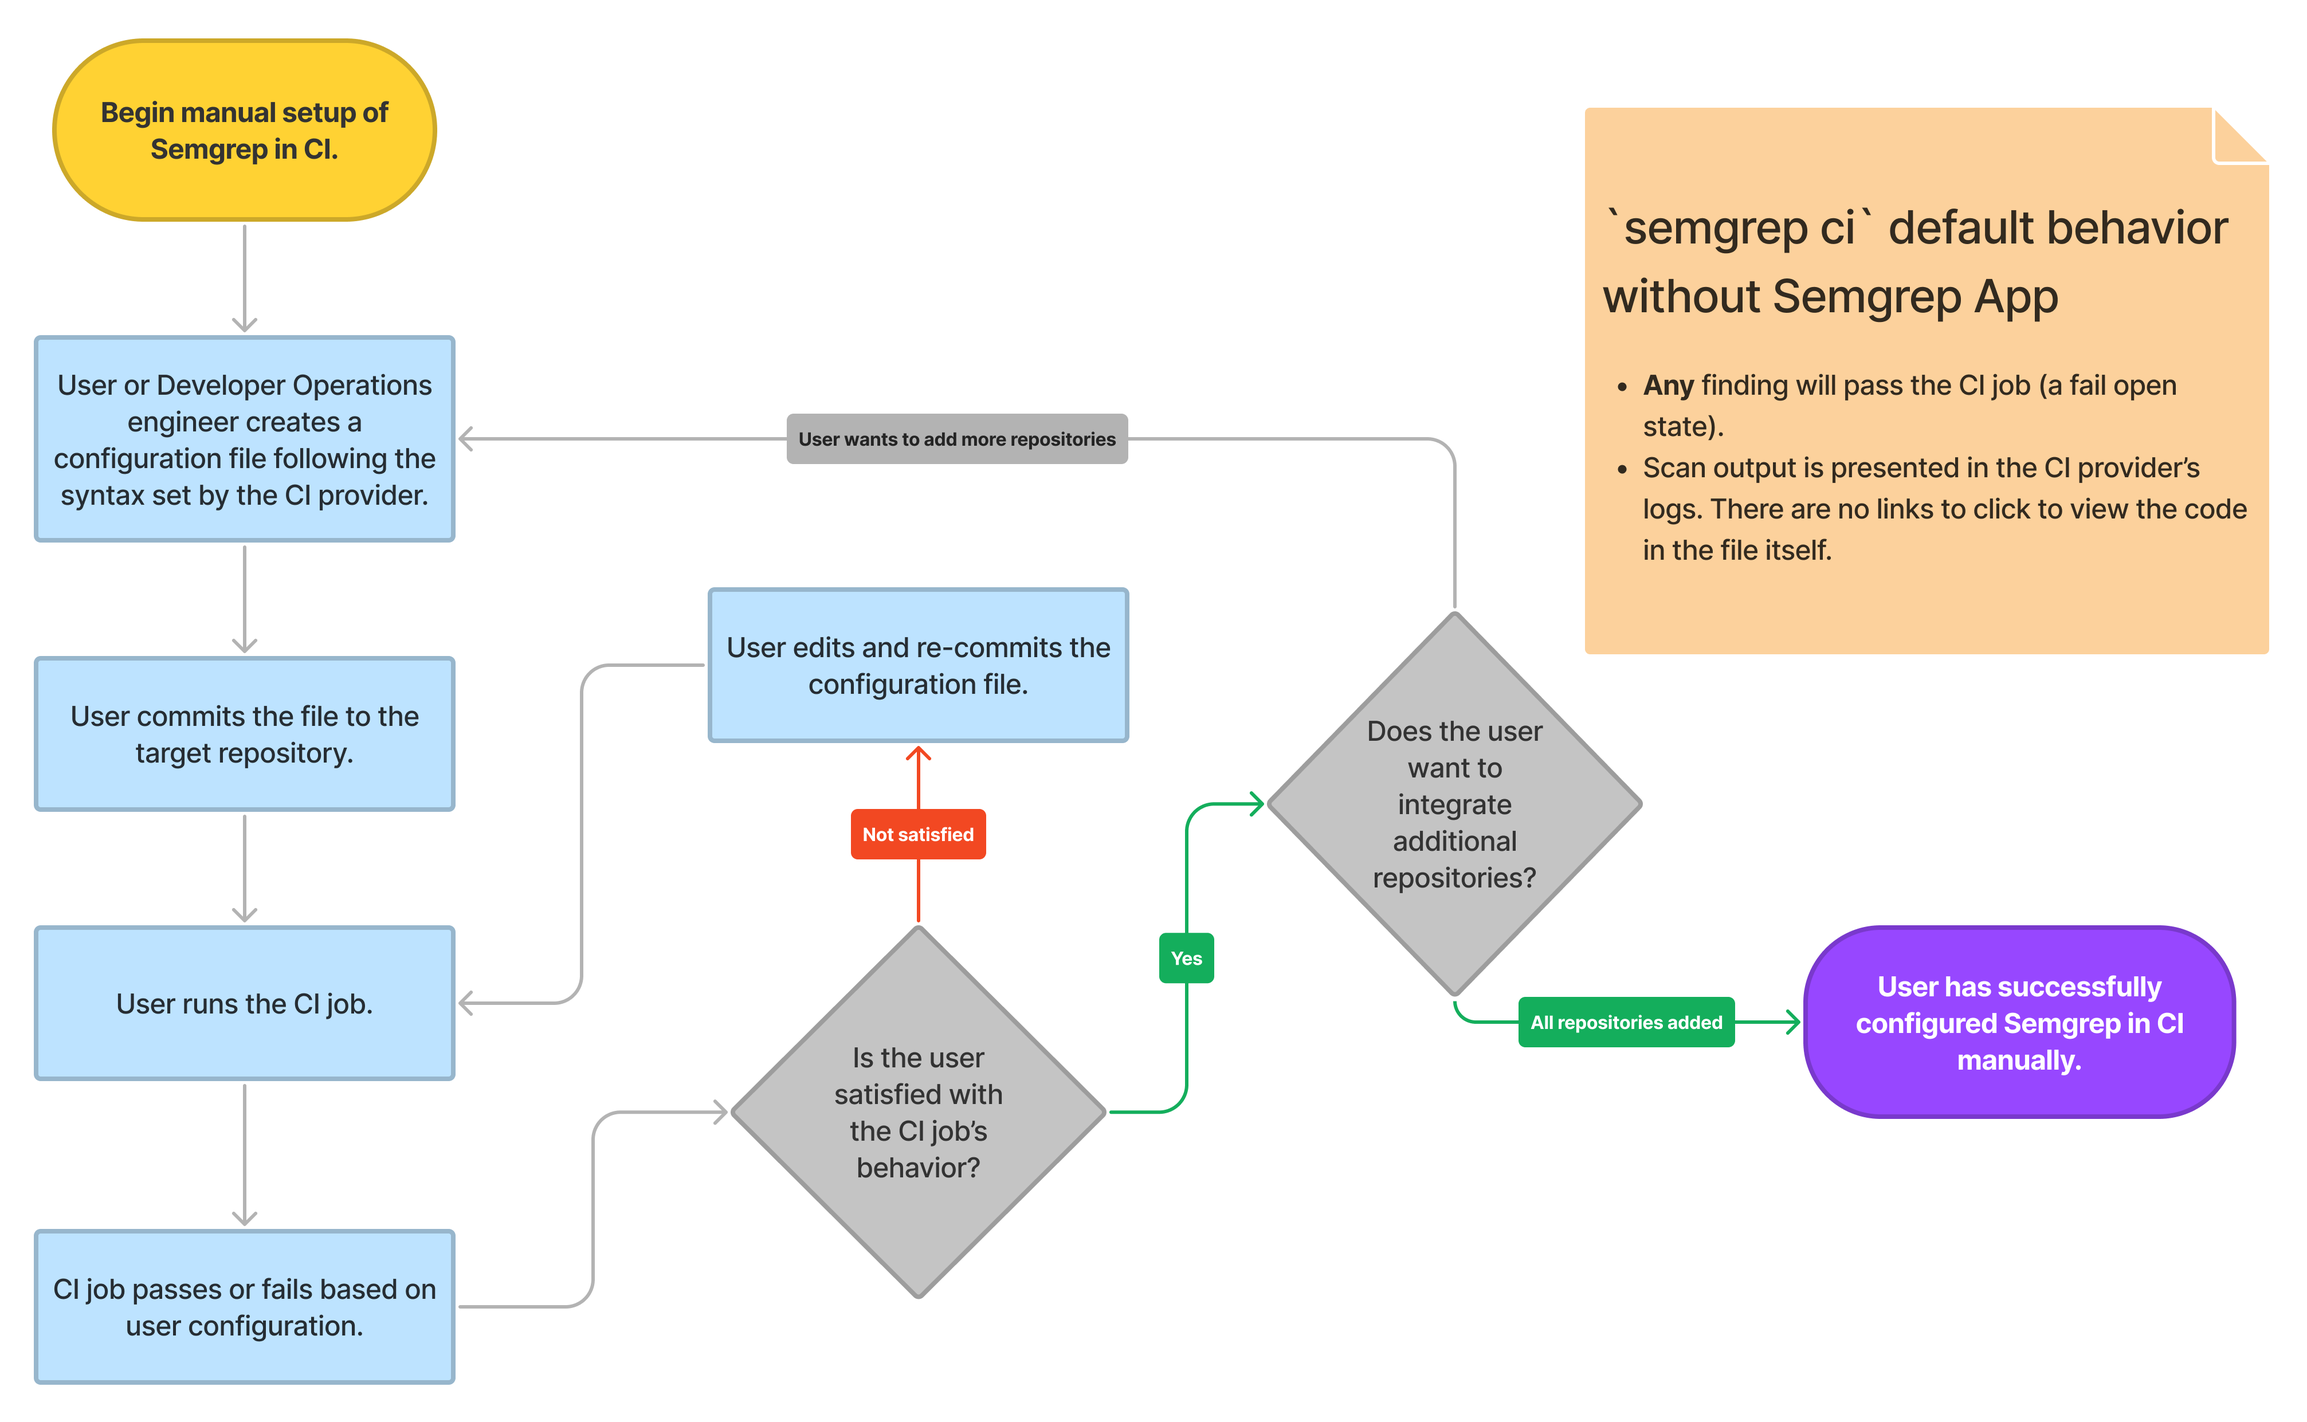
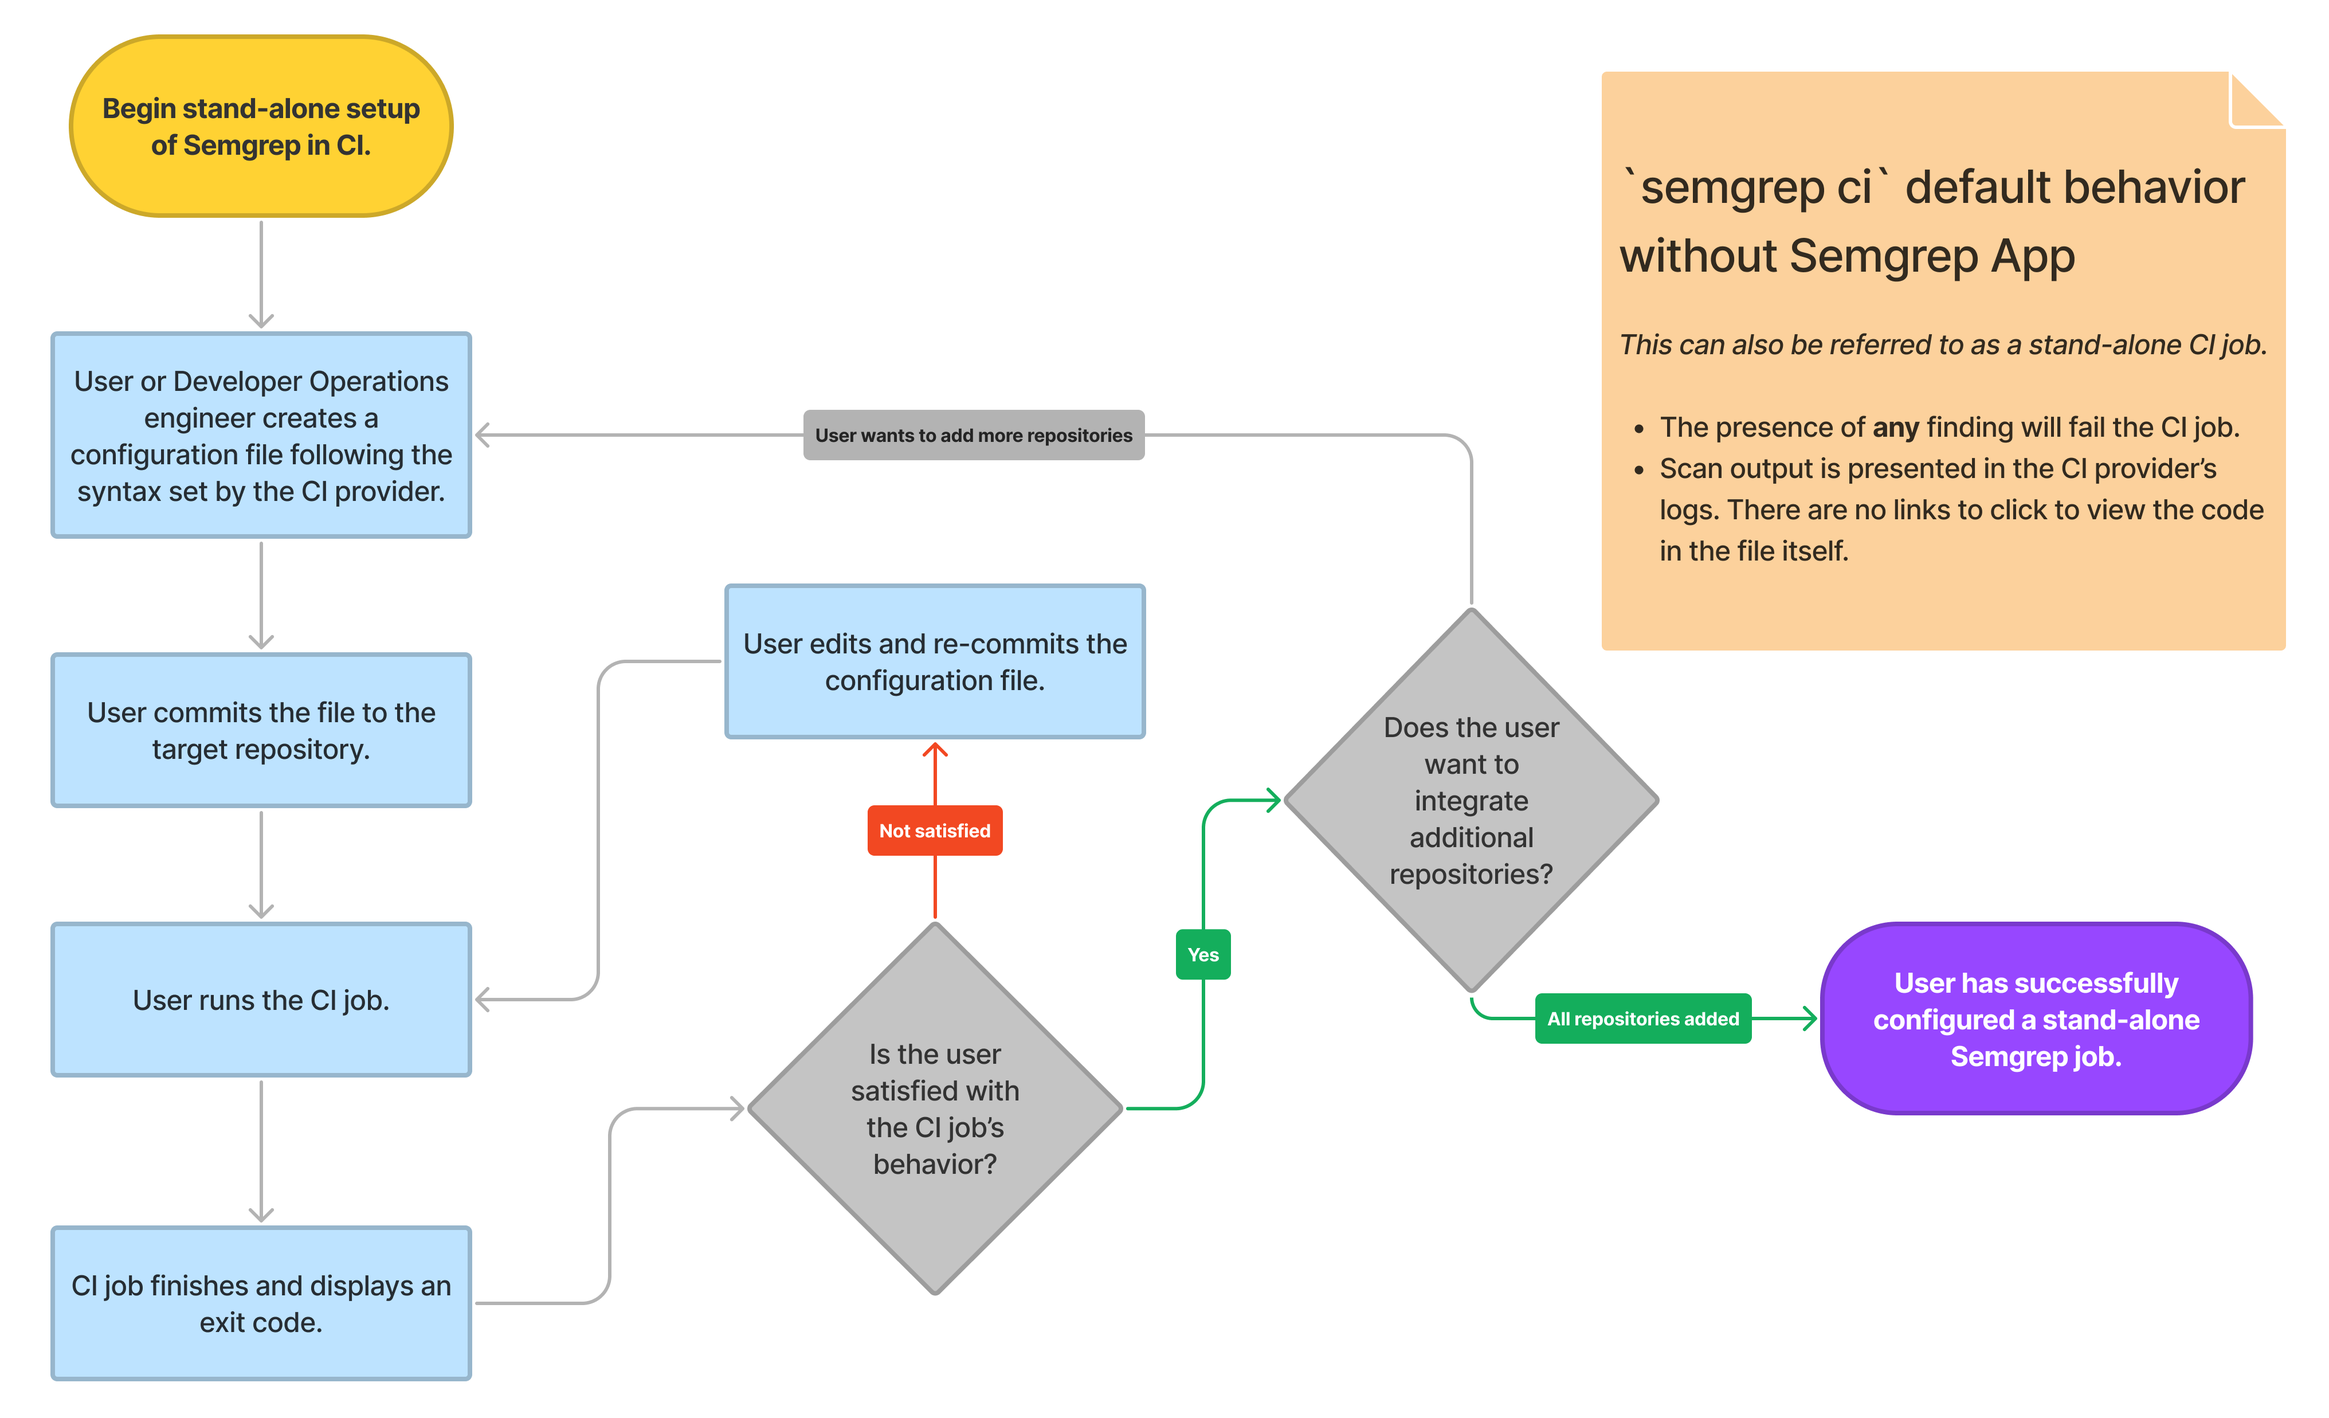
edited to add more comments in the config file

diff --git a/docs/semgrep-ci/manual-ci-setup.md b/docs/semgrep-ci/manual-ci-setup.md
@@ -10,13 +10,13 @@ import MoreHelp from "/src/components/MoreHelp"
 
 # Running Semgrep in continuous integration (CI) without Semgrep App
 
-Run Semgrep in your Continuous Integration (CI) pipeline to scan your repository for code vulnerabilities and other issues. This guide explains how to set up Semgrep in your pipeline without the use of Semgrep App.
+Run Semgrep in your Continuous Integration (CI) pipeline to scan your repository for code vulnerabilities and other issues. This guide explains how to set up Semgrep in your pipeline without the use of Semgrep App, also known as a **stand-alone** setup.
 
-There are three general steps to setting up Semgrep in your CI pipeline manually:
+There are three general steps to setting up Semgrep in your CI pipeline:
 
 1. Set up the CI job or action to scan with Semgrep and receive an exit code.
-2. Test the CI job, which means you are able to view findings in the CI provider's log.
-3. Refine the CI job's parameters. It is easier to troubleshoot any parameters after testing that the job runs.
+2. Test that the Semgrep job is scanning your repository and that you are able to view scan results in your CI provider's log.
+3. Refine the CI job's parameters. It is easier to troubleshoot any parameters after testing that the job runs successfully.
 
 ![Steps to run Semgrep in CI without Semgrep App](/img/semgrep-ci-overview-noapp.png "Steps to integrate Semgrep in CI without Semgrep App")
 *Figure 1. Steps to run Semgrep in CI manually.*
@@ -29,13 +29,12 @@ By refining a job's parameters, you are able to achieve the following goals:
 * **Run Semgrep with custom rules.** Apply rules specific to your organization's business goals and coding conventions.
 * **Run Semgrep when an event triggers.** Run Semgrep when a pull or merge request (PR or MR) is created. These event triggers or event hooks are dependent on your CI provider. 
 * **Run Semgrep on relevant files and blocks of code.** Configure Semgrep to ignore files and folders such as test files, configuration files, and files from other vendors.
-<!-- Waiting for DevOps to confirm the below statement -->
-* **Configure a Semgrep CI job to pass or fail when any finding is detected.** By default, manual configurations pass when any finding is detected. You can also configure Semgrep to fail CI jobs when findings are reported.
+* **Configure a Semgrep CI job to pass even when any finding is detected.** By default, manual configurations pass when any finding is detected. You can also configure Semgrep to fail CI jobs when findings are reported.
 * **Output, export, or save findings to a file.** Semgrep can save to a number of file formats, including SARIF and JSON. 
 
 ## Limitations of manually configured Semgrep CI scans 
 
-* Findings are not tiered based on a user-defined criteria (such as severity) and actions cannot be undertaken based on a user-defined criteria. This means that either any finding will cause the job to fail, or any finding still allows the job to pass.
+* Findings are not tiered based on a user-defined criteria (such as severity) and actions cannot be undertaken based on a user-defined criteria. To tier findings and block PRs or MRs based on your own defined criteria, use Semgrep App's [Rule Board](/semgrep-app/rule-board).
 * Findings are dumped to a log and are not tracked over time, so there is no record of a finding's **triage state**, such as opened, closed, or ignored.
 
 :::note
@@ -50,10 +49,6 @@ By refining a job's parameters, you are able to achieve the following goals:
  * `semgrep ci` makes use of environment variables to configure its behavior. 
  * `semgrep ci` performs a diff-aware scan by default. This means it only scans changes in files when run on a pull or merge request.
  * `semgrep ci` can be run on a local `.git` repository at any time to test its behavior before running it within a CI environment.
-
-:::note
-An alternative method of running Semgrep in your CI is to run the `semgrep scan` command, passing rules to scan, for example `semgrep scan --config p/default`, which performs a full scan of the repository every time the job is run. For more details, see [`semgrep scan` options](/cli-reference/#semgrep-scan-options).
-:::
 
 ### GitHub Actions
 
@@ -76,43 +71,40 @@ If you are self-hosting your repository, you must [use a self-hosted runner](htt
 name: Semgrep
 
 on:
-
-  # Scan pull requests.
+  # To scan changed files in PRs (diff-aware scanning):
   pull_request: {}
-
-  # Scan all files on branches, report any findings.
+  # To scan mainline branches and report all findings:
   push:
     branches: ["master", "main"]
-
-  # Schedule CI job to run at a certain time, using cron syntax.
+  # To schedule the CI job (this method uses cron syntax):
   schedule:
     - cron: '30 0 1,15 * *' # scheduled for 00:30 UTC on both the 1st and 15th of the month
 
 jobs:
   semgrep:
-
-    # User definable name of this GitHub Actions job.
+    # User-definable name of this GitHub Actions job:
     name: Scan
-
-    # Only change the `runs-on` value if you are self-hosting. 
+    # If you are self-hosting, change the following `runs-on` value: 
     runs-on: ubuntu-latest
 
     container:
       # A Docker image with Semgrep installed. Don't change this.
       image: returntocorp/semgrep
 
-    # Skip any PR created by dependabot to avoid permission issues
+    # To skip any PR created by dependabot to avoid permission issues:
     if: (github.actor != 'dependabot[bot]')
 
     steps:
-
       # Fetch project source with GitHub Actions Checkout.
       - uses: actions/checkout@v3
-
       # Run the "semgrep ci" command on the command line of the docker image.
       - run: semgrep ci
         env:
-          SEMGREP_RULES: p/default # more at semgrep.dev/explore
+           # Define rules to scan with through the SEMGREP_RULES environment variable. 
+           SEMGREP_RULES: p/default # more at semgrep.dev/explore
+           # Uncomment SEMGREP_TIMEOUT to set this job's timeout (in seconds):
+           # (Default is 1800 seconds. Set to 0 to disable.)
+           # SEMGREP_TIMEOUT: 300
 ```
 
 ### GitLab CI/CD
@@ -135,25 +127,22 @@ If you are already running [GitLab SAST](https://docs.gitlab.com/ee/user/applica
 
 ```yaml
 semgrep:
-
   # A Docker image with Semgrep installed.
   image: returntocorp/semgrep
-
   # Run the "semgrep ci" command on the command line of the docker image.
   script: semgrep ci
 
   rules:
-    # Scan changed files in MRs, only report new findings (existing findings ignored)
+    # To scan changed files in MRs (diff-aware scanning):
     - if: $CI_MERGE_REQUEST_IID
-    # Scan all files on the default branch, report any findings.
+    # To scan all files on the default branch and report any findings:
     - if: $CI_COMMIT_BRANCH == $CI_DEFAULT_BRANCH
 
   variables:
-
-    # Define rules through the SEMGREP_RULES environment variable. 
+    # Define rules to scan with through the SEMGREP_RULES environment variable. 
     SEMGREP_RULES: p/default
-
-    # Change job timeout (value in seconds; default is 1800 seconds. Set to 0 to disable)
+    # Uncomment SEMGREP_TIMEOUT to set this job's timeout (in seconds):
+    # (Default is 1800 seconds. Set to 0 to disable.)
     #   SEMGREP_TIMEOUT: 300
 ```
 
@@ -161,26 +150,21 @@ semgrep:
 
 ```yaml
 semgrep:
-
   # A Docker image with Semgrep installed.
   image: returntocorp/semgrep
 
   rules:
-
-    # Scan changed files in MRs, only report new findings (existing findings ignored)
+    # To scan changed files in MRs (diff-aware scanning):
     - if: $CI_MERGE_REQUEST_IID
-  
-    # Scan all files on the default branch, report any findings.
+    # To scan all files on the default branch and report any findings:
     - if: $CI_COMMIT_BRANCH == $CI_DEFAULT_BRANCH
 
   variables:
-
-    # Define rules through the SEMGREP_RULES environment variable. 
+    # Define rules to scan with through the SEMGREP_RULES environment variable. 
     SEMGREP_RULES: p/default # See more at semgrep.dev/explore.
-
-    # Change job timeout (value in seconds; default is 1800 seconds. Set to 0 to disable)
+    # Uncomment SEMGREP_TIMEOUT to set this job's timeout (in seconds):
+    # (Default is 1800 seconds. Set to 0 to disable.)
     # SEMGREP_TIMEOUT: 300
-  
     # Upload findings to GitLab SAST Dashboard
     SEMGREP_GITLAB_JSON: "1"
     script: semgrep ci --gitlab-sast > gl-sast-report.json || true
@@ -213,8 +197,11 @@ pipeline {
   stages {
     stage('Semgrep-Scan') {
         environment { 
+        // Define rules to scan with through the SEMGREP_RULES environment variable. 
           SEMGREP_RULES = "p/default"
-          SEMGREP_TIMEOUT = "300"
+       // Uncomment SEMGREP_TIMEOUT to set this job's timeout (in seconds):
+       // (Default is 1800 seconds. Set to 0 to disable.)
+          // SEMGREP_TIMEOUT = "300"
           // for Holden to confirm - because this is for diff-aware scanning
           SEMGREP_BASELINE_REF = "${GIT_BRANCH}"
         } 
@@ -233,7 +220,7 @@ To add Semgrep into your BitBucket Pipeline:
 
 1. Create or edit a `bitbucket-pipelines.yml` configuration file to add
    a Semgrep `step` as part of your pipeline. Refer to the [BitBucket Pipelines code snippet](#bitbucket-pipelines-code-snippet).
-2. Optional: You can also review the [Bitbucket guidelines guide](https://support.atlassian.com/bitbucket-cloud/docs/configure-bitbucket-pipelinesyml/) to help with editing the configuration file.
+2. Optional: You can also review the [BitBucket guidelines](https://support.atlassian.com/bitbucket-cloud/docs/configure-bitbucket-pipelinesyml/) to help with editing the configuration file.
 3. Commit the configuration file into the root folder within the target repository. The Semgrep job starts automatically upon detecting the `bitbucket-pipelines.yml` commit in the previous step.
 4. Optional: Re-run or view the Pipeline by clicking from **your repository > Pipelines**.
 5. Customize the job's behavior, such as its rules to scan and files to ignore.
@@ -374,14 +361,13 @@ Your customization options with other CI providers vary depending on working env
 
 ## Refining the CI job
 
-The following sections describe methods to customize your CI job.
+The following sections describe methods to customize your CI job. Many of these features require the correct setup of environment variables.
 
 ### Passing or failing the CI job
 
-<!-- I am waiting for Devops to tell me about the changes in fail open behavior, so please skip this section for now -->
-By default, a Semgrep CI job exits with the exit code 0 if the scan returns any findings. This causes the job to fail.
+By default, a Semgrep CI job exits with exit code 1 if the scan returns any findings. This causes the job to fail.
 
-Semgrep provides a **fail closed** option. This enables you to suppress findings or internal Semgrep errors that block your pipeline. You can accomplish this in several different ways:
+Semgrep provides **fail open** options. These options enable you to suppress findings or internal Semgrep errors that block your pipeline:
 
 <dl>
 	<dt><code>semgrep ci</code></dt>
@@ -393,6 +379,23 @@ Semgrep provides a **fail closed** option. This enables you to suppress findings
 </dl>
 
 Refer to [Semgrep exit codes](../cli-reference/#exit-codes) to understand various internal issues that cause Semgrep to fail.
+
+### Diff-aware scanning
+
+To enable diff-aware scanning, Semgrep provides a `SEMGREP_BASELINE_REF` environment variable that users can set with the **commit hash** or **branch name** as the baseline. For example, given a repository with 10 commits, setting SEMGREP_BASELINE_REF to the 8th commit will return results introduced by changes in the 9th and 10th commit.
+
+To only report findings newly added since branching off from your `main` branch, set the following:
+<pre class="language-bash"><code>SEMGREP_BASELINE_REF=<span className="placeholder">TOPIC-BRANCH-NAME</span></code></pre>
+
+To only report findings newly added
+after a specific commit, set the following:
+<pre class="language-bash"><code>SEMGREP_BASELINE_REF=<span className="placeholder">INSERT_GIT_COMMIT_HASH</span></code></pre>
+
+
+
+:::note
+GitHub Actions and GitLab CI/CD diff-aware scanning works automatically, without the need to set `SEMGREP_BASELINE_REF`.
+:::
 
 ### Setting a scan schedule
 
@@ -453,9 +456,9 @@ See [Writing rules](https://semgrep.dev/docs/writing-rules/overview/) to learn h
 
 ### Ignoring files
 
-By default `semgrep ci` skips files and directories such as `tests/`, `node_modules/`, and `vendor/`. It uses the same default `.semgrepignore` as the `semgrep` command. This default `semgrepignore`  can be found in the [Semgrep GitHub repository](https://github.com/returntocorp/semgrep/blob/develop/.semgrepignore). This is used by `semgrep ci` when no explicit `.semgrepignore` file is found in the root of your repository.
+By default `semgrep ci` skips files and directories such as `tests/`, `node_modules/`, and `vendor/`. It uses the default `.semgrepignore` file which can be found in the [Semgrep GitHub repository](https://github.com/returntocorp/semgrep/blob/develop/.semgrepignore). This default is used when no explicit `.semgrepignore` file is found in the root of your repository.
 
-You can copy and commit the default `.semgrepignore` to the **root of your repository** and extend it with your own entries or write one from scratch. `.semgrepignore` follows `.gitignore` syntax. If Semgrep detects a `.semgrepignore` file within your repository, it won't append entries from the default `.semgrepignore` file.
+You can copy and commit the default `.semgrepignore` file to the **root of your repository** and extend it with your own entries or write one from scratch. If Semgrep detects a `.semgrepignore` file within your repository, it won't append entries from the default `.semgrepignore` file.
 
 For a complete example, see the [.semgrepignore file on Semgrep’s source code](https://github.com/returntocorp/semgrep/blob/develop/.semgrepignore).
 
@@ -464,6 +467,12 @@ For a complete example, see the [.semgrepignore file on Semgrep’s source code]
 :::
 
 For information on ignoring individual findings in code, see the [Ignoring findings page](https://semgrep.dev/docs/ignoring-findings/).
+
+### Saving or exporting findings to a file
+
+To save or export findings, pass the following options:
+
+
 
 ## Migrating to Semgrep App from a manual CI setup
 
